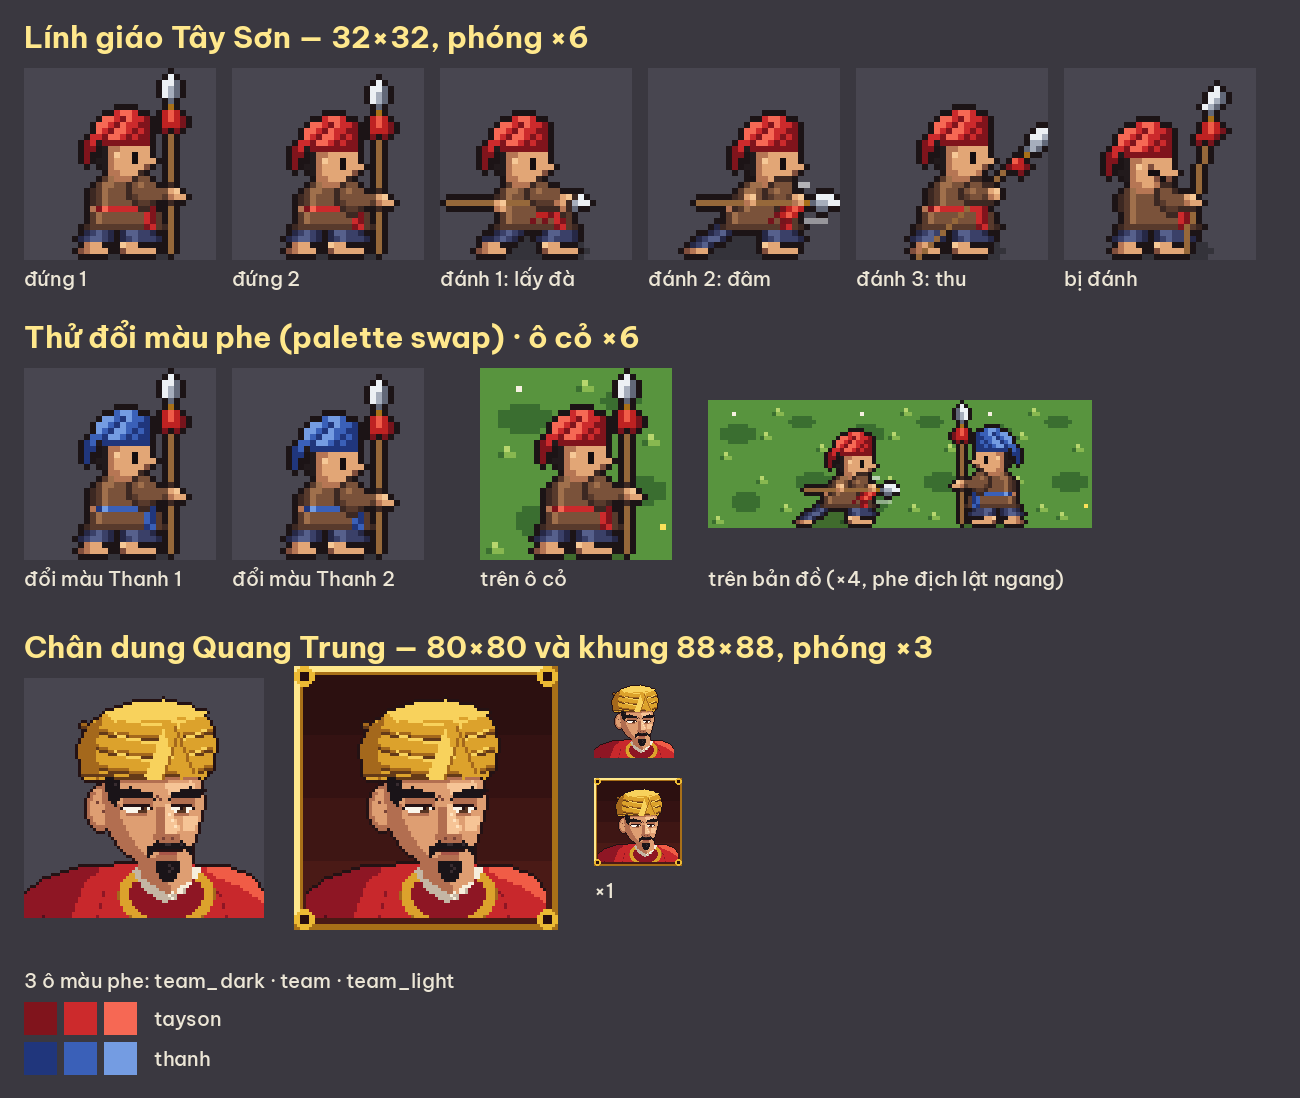
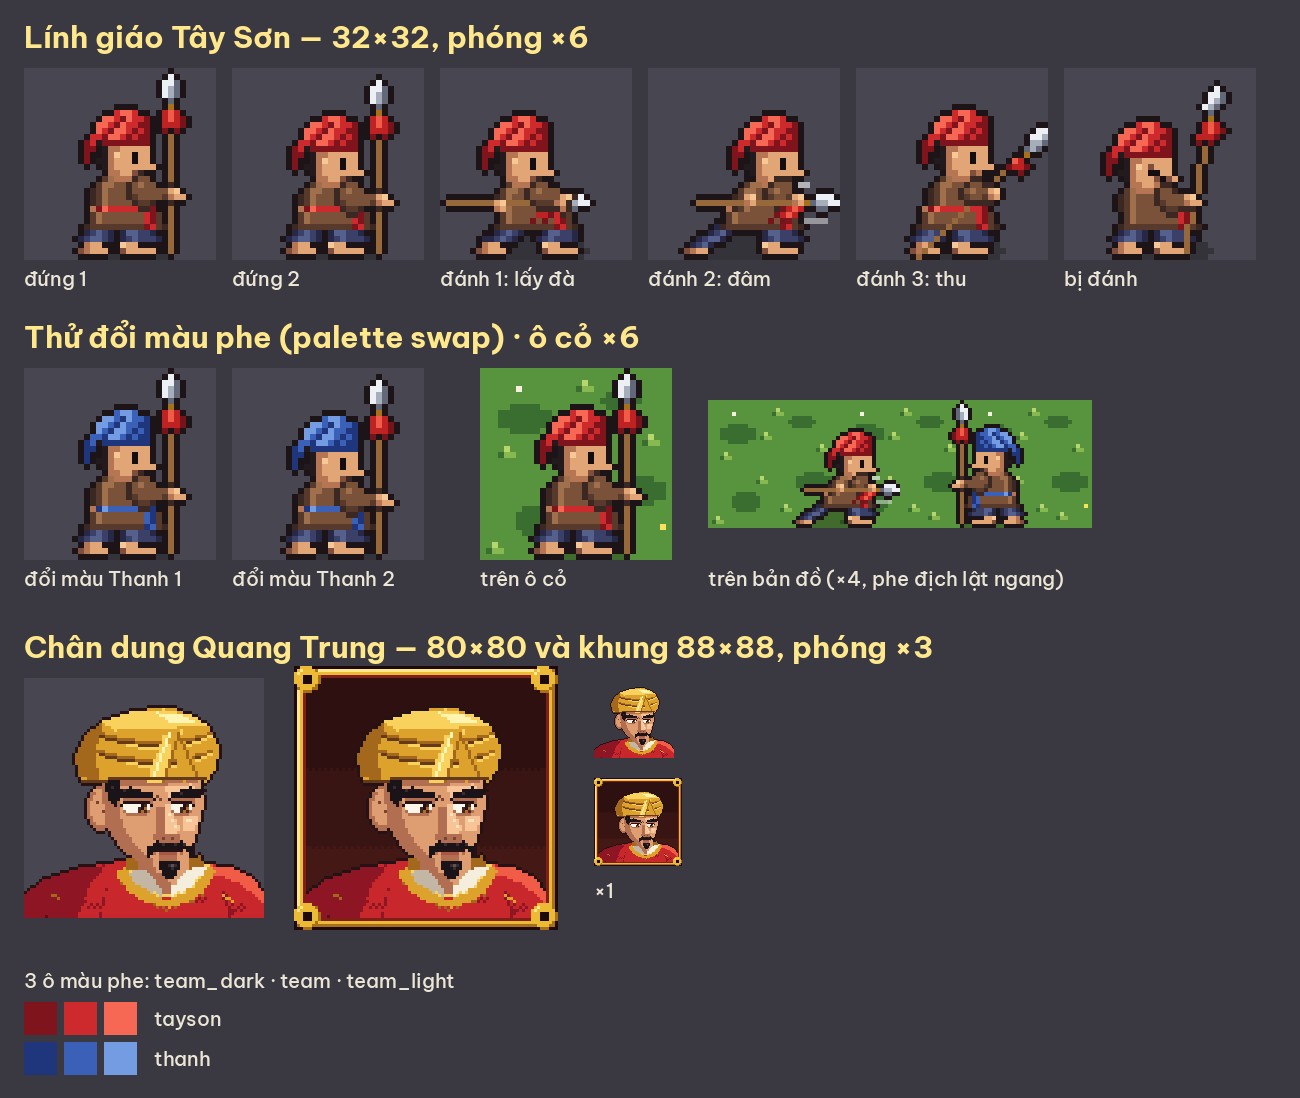
Tay Son M1: final art quality sample (linh giao idle/attack/hit, Quang Trung portrait and frame)
Claude-Session: https://claude.ai/code/session_019xBjWALMU1UXnhegCtVYTa

diff --git a/games/quang-trung/tools/art_sample.py b/games/quang-trung/tools/art_sample.py
@@ -162,9 +162,9 @@ HEAD = Part(10, 7, """
     qrkqqqqqqqq.
     qq.kddsssss.
     q..kdSssess.
-    q.kkdsssesss
-    ...kdsssssD.
-    ....ddsssd..
+    q.kkdsssess.
+    ...kdsssssss
+    ....ddssDd..
     .....dddd...
 """)
 
@@ -178,8 +178,8 @@ HEAD_HIT = Part(10, 7, """
     qrkqqqqqqqq.
     qq.kddsssss.
     q..kdSsDsss.
-    q.kkdsseesss
-    ...kdsssDeD.
+    q.kkdsseess.
+    ...kdsssDeDs
     ....ddssdd..
     .....dddd...
 """)
@@ -416,7 +416,8 @@ PP = {
     "hr_lt":     (96, 80, 80),
     # Mắt, môi
     "eye_w":     (250, 246, 236),
-    "iris":      (88, 52, 34),
+    "iris":      (70, 40, 28),
+    "iris_lt":   (176, 108, 48),
     "lip":       (168, 86, 72),
     # Khăn vàng
     "gd_hi":     (255, 244, 176),
@@ -499,23 +500,33 @@ def portrait_qt():
     b = Brush(img)
 
     # --- Áo bào đỏ ------------------------------------------------------------
-    b.poly([(0, 79), (0, 72), (6, 67), (18, 63), (30, 62), (56, 62), (66, 63), (74, 66), (79, 71), (79, 79)], "rd")
-    b.poly([(0, 79), (0, 72), (6, 67), (18, 63), (26, 63), (20, 68), (16, 79)], "rd_sh")    # vai trái khuất
-    b.poly([(60, 63), (68, 63), (75, 66), (79, 71), (79, 74), (72, 69), (64, 66)], "rd_lt")  # vai phải bắt sáng
-    b.poly([(16, 79), (20, 68), (26, 63), (30, 63), (24, 70), (21, 79)], "rd")
-    b.line([(27, 68), (24, 79)], "rd_sh")                                                     # nếp áo
-    b.line([(64, 69), (67, 79)], "rd_sh")
-    b.line([(9, 73), (6, 79)], "rd_dp")
-    # Cổ tròn viền vàng, cổ áo trong trắng (giao lĩnh)
-    b.ell((31, 61, 63, 83), "gd_sh")
-    b.ell((32, 61, 62, 82), "gd")
-    b.ell((35, 63, 59, 80), "rd_sh")
-    b.poly([(36, 63), (58, 63), (54, 70), (47, 75), (40, 70)], "wt_sh")
-    b.poly([(38, 63), (58, 63), (54, 69), (48, 73)], "wt")
+    b.poly([(0, 79), (0, 72), (6, 67), (18, 63), (30, 61), (58, 61), (68, 63), (75, 66), (79, 71), (79, 79)], "rd")
+    b.poly([(0, 79), (0, 72), (6, 67), (18, 63), (27, 62), (21, 68), (17, 79)], "rd_sh")    # vai trái khuất
+    b.poly([(62, 62), (69, 63), (75, 66), (79, 71), (79, 74), (72, 68), (64, 65)], "rd_lt")  # vai phải bắt sáng
+    b.line([(27, 69), (25, 79)], "rd_sh")                                                     # nếp áo
+    b.line([(66, 70), (68, 79)], "rd_sh")
+    b.line([(9, 73), (7, 79)], "rd_dp")
+    b.px([(70, 66), (71, 67)], "rd_lt")
+    # thêu mây vàng trên vai (gợi ý hoa văn áo bào)
+    for x, y in ((8, 72), (66, 73)):
+        b.px([(x, y), (x + 1, y - 1), (x + 2, y - 1), (x + 3, y), (x + 3, y + 1), (x + 2, y + 1),
+              (x + 4, y + 2), (x + 5, y + 2), (x + 6, y + 1)], "gd_sh" if x < 40 else "gd")
+    # mây cuộn chìm (đỏ sẫm) trên áo bào
+    cloud = ((1, 0), (2, 0), (0, 1), (3, 1), (5, 1), (6, 1), (0, 2), (2, 2), (4, 2), (1, 3))
+    for ox, oy in ((11, 69), (20, 74), (56, 72), (69, 75), (3, 76)):
+        b.px([(ox + x, oy + y) for x, y in cloud], "rd_sh")
+    # cổ áo sau gáy (sau cổ)
+    b.poly([(34, 60), (58, 59), (60, 63), (33, 64)], "gd_sh")
     # --- Cổ ------------------------------------------------------------------
-    b.poly([(36, 54), (55, 55), (55, 66), (48, 72), (39, 66)], "sk_sh")
-    b.poly([(47, 60), (55, 58), (55, 66), (49, 71)], "sk")
-    b.line([(40, 62), (46, 66)], "sk_dp")                                                    # gân cổ / bóng hàm
+    b.poly([(38, 55), (54, 56), (55, 68), (46, 72), (38, 66)], "sk_sh")
+    b.poly([(47, 60), (54, 58), (55, 67), (49, 70)], "sk")
+    b.poly([(38, 55), (54, 56), (53, 59), (40, 60)], "sk_dp")                              # bóng hàm đổ xuống cổ
+    # cổ áo trong trắng bắt chéo + viền vàng cổ tròn phía trước
+    b.poly([(33, 63), (40, 64), (47, 72), (40, 72)], "wt_sh")
+    b.poly([(60, 62), (54, 64), (47, 72), (53, 72)], "wt")
+    b.line([(31, 64), (35, 69), (41, 73), (47, 75), (53, 73), (59, 69), (62, 63)], "gd", 3)
+    b.line([(33, 63), (37, 68), (42, 71), (47, 72), (52, 71), (58, 67), (61, 62)], "gd_lt")
+    b.line([(31, 66), (35, 71), (41, 75), (47, 77), (53, 75), (59, 71), (63, 65)], "gd_sh")
 
     # --- Tai -------------------------------------------------------------------
     b.ell((21, 36, 29, 50), "sk_sh")
@@ -527,12 +538,12 @@ def portrait_qt():
     face = [(27, 30), (26, 38), (27, 46), (29, 52), (33, 57), (38, 61), (43, 64), (48, 64), (52, 61), (55, 56),
             (57, 50), (58, 46), (59, 41), (58, 36), (57, 30)]
     b.poly(face, "sk")
-    # bóng má trái (phía khuất sáng), hẹp ở thái dương, rộng ở hàm
-    b.poly([(27, 30), (31, 30), (30, 37), (31, 45), (34, 52), (38, 57), (43, 61), (43, 64), (38, 61), (33, 57),
+    # bóng má trái (phía khuất sáng): hẹp ở thái dương, ôm theo hàm
+    b.poly([(27, 30), (31, 30), (31, 38), (31, 45), (33, 51), (37, 56), (42, 60), (43, 64), (38, 61), (33, 57),
             (29, 52), (27, 46), (26, 38)], "sk_sh")
-    b.poly([(27, 30), (57, 30), (57, 33), (46, 34), (36, 34), (29, 35)], "sk_sh")          # bóng khăn đổ xuống trán
-    # sáng: trán phải, gò má phải, cằm
-    b.poly([(47, 35), (56, 34), (57, 39), (52, 40), (48, 38)], "sk_lt")
+    b.poly([(27, 30), (57, 30), (57, 34), (46, 35), (36, 35), (29, 36)], "sk_sh")          # bóng khăn đổ xuống trán
+    # sáng: trán phải, gò má phải
+    b.poly([(47, 36), (56, 35), (57, 39), (52, 40), (48, 39)], "sk_lt")
     b.poly([(53, 46), (57, 45), (56, 51), (53, 50)], "sk_lt")
     # hốc mắt
     b.poly([(33, 40), (42, 40), (43, 42), (33, 42)], "sk_sh")
@@ -541,93 +552,112 @@ def portrait_qt():
     b.poly([(46, 42), (48, 42), (51, 50), (50, 52), (47, 52)], "sk_lt")
     b.poly([(44, 43), (46, 43), (46, 52), (44, 52)], "sk_sh")
     b.poly([(43, 52), (51, 52), (51, 54), (44, 55)], "sk_sh")
-    # bóng dưới môi + cằm
-    b.poly([(43, 59), (51, 59), (50, 61), (44, 61)], "sk_sh")
+    # bóng dưới môi
+    b.poly([(44, 59), (51, 59), (50, 60), (45, 60)], "sk_sh")
     despeckle(img)
 
     # --- Chi tiết vẽ tay -------------------------------------------------------
     b.px([(48, 45), (49, 47), (50, 49)], "sk_hi")                                          # sống mũi
     b.px([(46, 53), (49, 53)], "sk_dp")                                                     # lỗ mũi
     b.px([(51, 51)], "sk")
-    # mắt gần (trái): mí trên đậm, tròng trắng, con ngươi + chấm sáng
-    b.run(33, 41, 42, "line")
-    b.px([(32, 43), (42, 43)], "line")
+    b.px([(54, 47), (55, 47)], "sk_hi")                                                     # gò má
+    # mắt gần (trái): mí trên đậm, tròng trắng, con ngươi nâu hổ phách + chấm sáng -> "mắt sáng"
+    b.run(33, 41, 41, "line")
+    b.px([(32, 42), (42, 42)], "line")
+    b.run(33, 41, 42, "eye_w")
     b.run(33, 41, 43, "eye_w")
     b.run(34, 40, 44, "eye_w")
-    b.rect((38, 43, 40, 45), "iris")
-    b.px([(39, 43)], "line")
-    b.px([(38, 43)], "eye_w")
+    b.rect((38, 42, 40, 44), "iris")
+    b.px([(39, 44), (40, 43)], "iris_lt")
+    b.px([(39, 42), (39, 43)], "line")
+    b.px([(38, 42)], "eye_w")
     b.run(34, 40, 45, "sk_sh")
-    # mắt xa (phải, hẹp hơn)
-    b.run(49, 55, 42, "line")
-    b.px([(56, 43)], "line")
+    b.px([(33, 44), (41, 44)], "sk_sh")
+    # mắt xa (phải, hẹp hơn vì mặt quay)
+    b.run(49, 55, 41, "line")
+    b.px([(56, 42)], "line")
+    b.run(49, 55, 42, "eye_w")
     b.run(49, 55, 43, "eye_w")
     b.run(50, 54, 44, "eye_w")
-    b.rect((51, 43, 53, 45), "iris")
-    b.px([(52, 43)], "line")
-    b.px([(51, 43)], "eye_w")
+    b.rect((52, 42, 54, 44), "iris")
+    b.px([(53, 44), (54, 43)], "iris_lt")
+    b.px([(53, 42), (53, 43)], "line")
+    b.px([(52, 42)], "eye_w")
     b.run(50, 54, 45, "sk_sh")
+    b.px([(49, 44), (55, 44)], "sk_sh")
     # lông mày rậm, chau xuống ở đầu trong -> quyết đoán
     b.poly([(29, 37), (35, 36), (42, 38), (43, 40), (36, 39), (30, 39)], "hr")
     b.poly([(48, 40), (49, 38), (55, 36), (59, 37), (58, 39), (52, 39)], "hr")
+    b.px([(33, 37), (52, 38)], "hr_md")
     b.px([(44, 39), (45, 40)], "sk_dp")                                                    # nếp chau giữa mày
-    # miệng
+    # miệng mím
     b.run(43, 52, 57, "line")
     b.run(45, 50, 58, "lip")
+    b.px([(43, 58), (52, 58)], "sk_sh")
     # ria mép rủ hai đầu
     b.poly([(41, 56), (44, 54), (48, 55), (52, 54), (55, 56), (55, 58), (52, 56), (48, 56), (44, 56), (41, 59)], "hr")
-    b.px([(47, 55), (48, 55), (52, 55)], "hr_md")
-    # râu cằm ngắn
-    b.poly([(44, 61), (51, 61), (51, 64), (49, 67), (46, 67), (44, 64)], "hr")
-    b.px([(48, 62), (49, 63), (48, 64)], "hr_md")
+    b.px([(46, 55), (50, 55), (53, 55)], "hr_md")
+    # râu cằm ngắn, vuốt nhọn
+    b.poly([(45, 61), (51, 61), (51, 63), (49, 66), (47, 66), (45, 63)], "hr")
+    b.px([(48, 62), (49, 63), (50, 62)], "hr_md")
+    b.px([(49, 62)], "hr_lt")
     # tóc mai trước tai
     b.poly([(27, 31), (31, 31), (31, 39), (30, 42), (28, 40), (27, 36)], "hr")
-    b.px([(30, 33), (30, 35)], "hr_md")
+    b.px([(30, 33), (29, 36)], "hr_md")
 
-    # --- Khăn vấn vàng ---------------------------------------------------------
+    # --- Khăn vấn vàng: rộng, thấp, các vòng quấn võng ra trước, dải chéo chữ nhân ---
     cx = 44
-    outer = [(19, 31), (18, 23), (21, 16), (27, 11), (36, 8), (46, 7), (55, 9), (61, 14), (63, 21), (62, 29), (59, 33)]
-    outer += list(reversed(arc_pts(20, 59, 33, 32, cx)))
+    outer = [(18, 32), (17, 25), (20, 19), (26, 14), (35, 11), (41, 10), (50, 10), (55, 12), (61, 16), (64, 23), (63, 30), (60, 34)]
+    outer += list(reversed(arc_pts(19, 60, 34, 33, cx)))
     b.poly(outer, "gd")
-    b.poly([(27, 11), (36, 8), (46, 7), (55, 9), (59, 12), (50, 13), (40, 13), (30, 14)], "gd_lt")   # đỉnh khăn
-    # các vòng quấn: mỗi vòng sáng ở trên, tối ở mép dưới; võng xuống phía trước
-    for ys, ym in ((15, 19), (21, 25), (27, 31)):
-        b.line(arc_pts(19, 62, ys, ym, cx), "gd_sh")
-        b.line([(p[0], p[1] + 1) for p in arc_pts(19, 62, ys, ym, cx)], "gd_dp")
-        b.line([(p[0], p[1] - 4) for p in arc_pts(30, 60, ys, ym, cx)], "gd_lt")
+    b.poly([(26, 14), (35, 11), (46, 10), (55, 12), (60, 15), (50, 16), (40, 16), (30, 17)], "gd_lt")   # đỉnh khăn
+    b.poly([(44, 11), (52, 12), (56, 14), (48, 14)], "gd_hi")
+    for ys, ym in ((17, 21), (23, 27)):                    # mép dưới mỗi vòng quấn
+        pts = arc_pts(22, 62, ys, ym, cx)
+        b.line(pts, "gd_sh")
+        b.line([(x, y + 1) for x, y in pts if x > 22], "gd_dp")
+        b.line([(x, y + 2) for x, y in arc_pts(34, 62, ys, ym, cx)], "gd_lt")   # mép trên vòng kế bắt sáng
     # dải chéo chữ nhân phía trước trán
-    b.poly([(40, 33), (47, 15), (51, 15), (45, 33)], "gd_lt")
-    b.poly([(46, 15), (50, 15), (57, 31), (52, 33)], "gd")
-    b.line([(46, 33), (51, 18)], "gd_sh")
-    b.line([(50, 16), (56, 31)], "gd_sh")
+    b.poly([(41, 34), (47, 17), (52, 17), (46, 34)], "gd_lt")
+    b.poly([(47, 17), (51, 17), (58, 32), (53, 34)], "gd")
+    b.line([(46, 34), (51, 19)], "gd_sh")
+    b.line([(51, 18), (57, 32)], "gd_sh")
+    b.line([(48, 18), (43, 32)], "gd_hi")
     # mép trái khuất sáng
-    b.poly([(19, 31), (18, 23), (21, 16), (25, 13), (23, 22), (24, 33)], "gd_sh")
-    b.line([(19, 32), (40, 33)], "gd_dp")
+    b.poly([(18, 32), (17, 25), (20, 19), (25, 15), (23, 24), (24, 34)], "gd_sh")
+    b.line(arc_pts(19, 60, 34, 33, cx), "gd_dp")
 
     return outline(img, PP["line"])
 
 
 def portrait_frame(port):
-    """Khung sơn mài 88x88: nền đỏ-đen chia bậc, viền vàng nổi, góc đồng tiền."""
-    fr = blank(88, 88, (40, 14, 14))
-    p = fr.load()
-    for y in range(2, 86):                      # nền: 4 bậc màu, không chuyển mượt
-        band = min(3, (y - 2) // 21)
-        col = ((44, 16, 16), (52, 18, 18), (62, 22, 20), (74, 26, 22))[band]
-        for x in range(2, 86):
-            p[x, y] = rgba(col)
-    fr.alpha_composite(port, (4, 4))
+    """Khung sơn mài 88x88: nền đỏ-đen chia bậc, viền vàng nổi 3 lớp, góc đồng Quang Trung thông bảo."""
+    LQ = {"dk": (30, 10, 12), "l0": (46, 16, 16), "l1": (56, 20, 18), "l2": (68, 24, 20), "red": (128, 30, 28)}
+    fr = blank(88, 88, LQ["dk"])
     d = ImageDraw.Draw(fr)
-    gold, gold_l, gold_d = rgba(PAL["gold"]), rgba(PAL["gold_light"]), rgba(PAL["gold_dark"])
-    d.rectangle((0, 0, 87, 1), fill=gold_l)
-    d.rectangle((0, 0, 1, 87), fill=gold_l)
-    d.rectangle((0, 86, 87, 87), fill=gold_d)
-    d.rectangle((86, 0, 87, 87), fill=gold_d)
-    d.rectangle((2, 2, 85, 2), fill=gold_d)
-    d.rectangle((2, 2, 2, 85), fill=gold_d)
-    for cx, cy in ((3, 3), (84, 3), (3, 84), (84, 84)):       # đồng Quang Trung thông bảo
-        d.ellipse((cx - 3, cy - 3, cx + 3, cy + 3), fill=gold)
-        d.rectangle((cx - 1, cy - 1, cx + 1, cy + 1), fill=rgba((40, 14, 14)))
+    # nền sơn mài: tối ở trên, ấm dần xuống dưới (3 bậc, không chuyển mượt)
+    d.rectangle((4, 4, 83, 83), fill=rgba(LQ["l0"]))
+    d.rectangle((4, 34, 83, 83), fill=rgba(LQ["l1"]))
+    d.rectangle((4, 60, 83, 83), fill=rgba(LQ["l2"]))
+    for x in range(5, 83, 2):                          # răng cưa nhỏ giữa các bậc cho mềm
+        fr.putpixel((x, 34), rgba(LQ["l0"]))
+        fr.putpixel((x + 1, 60), rgba(LQ["l1"]))
+    fr.alpha_composite(port, (4, 4))
+    g = {k: rgba(PAL[k]) for k in ("gold_light", "gold", "gold_dark")}
+    # viền vàng: sáng trên-trái, tối dưới-phải; trong cùng một nét son đỏ
+    d.rectangle((0, 0, 87, 87), outline=rgba(LQ["dk"]))
+    d.line((1, 1, 86, 1), fill=g["gold_light"])
+    d.line((1, 1, 1, 86), fill=g["gold_light"])
+    d.rectangle((2, 2, 85, 85), outline=g["gold"])
+    d.line((1, 86, 86, 86), fill=g["gold_dark"])
+    d.line((86, 1, 86, 86), fill=g["gold_dark"])
+    d.rectangle((3, 3, 84, 84), outline=rgba(LQ["red"]))
+    for cx, cy in ((4, 4), (83, 4), (4, 83), (83, 83)):    # đồng tiền: tròn vàng, lỗ vuông
+        d.ellipse((cx - 4, cy - 4, cx + 4, cy + 4), fill=g["gold_dark"])
+        d.ellipse((cx - 4, cy - 4, cx + 3, cy + 3), fill=g["gold"])
+        fr.putpixel((cx - 2, cy - 3), g["gold_light"])
+        fr.putpixel((cx - 3, cy - 2), g["gold_light"])
+        d.rectangle((cx - 1, cy - 1, cx + 1, cy + 1), fill=rgba(LQ["dk"]))
     return fr
 
 
@@ -713,7 +743,7 @@ def preview(strips, thanh_idle, port, framed):
     cell = blank(80, 80, CELL)
     cell.alpha_composite(port)
     sheet.alpha_composite(big(cell, 3), (24, y))
-    sheet.alpha_composite(big(framed, 3), (24 + 270, y - 12))
+    sheet.alpha_composite(big(framed, 3), (24 + 270, y - 12))  # khung lớn hơn 8px -> lệch 12px để thẳng mặt
     sheet.alpha_composite(port, (24 + 570, y))
     sheet.alpha_composite(framed, (24 + 570, y + 100))
     d.text((24 + 570, y + 200), "×1", font=f_l, fill=LABEL)
